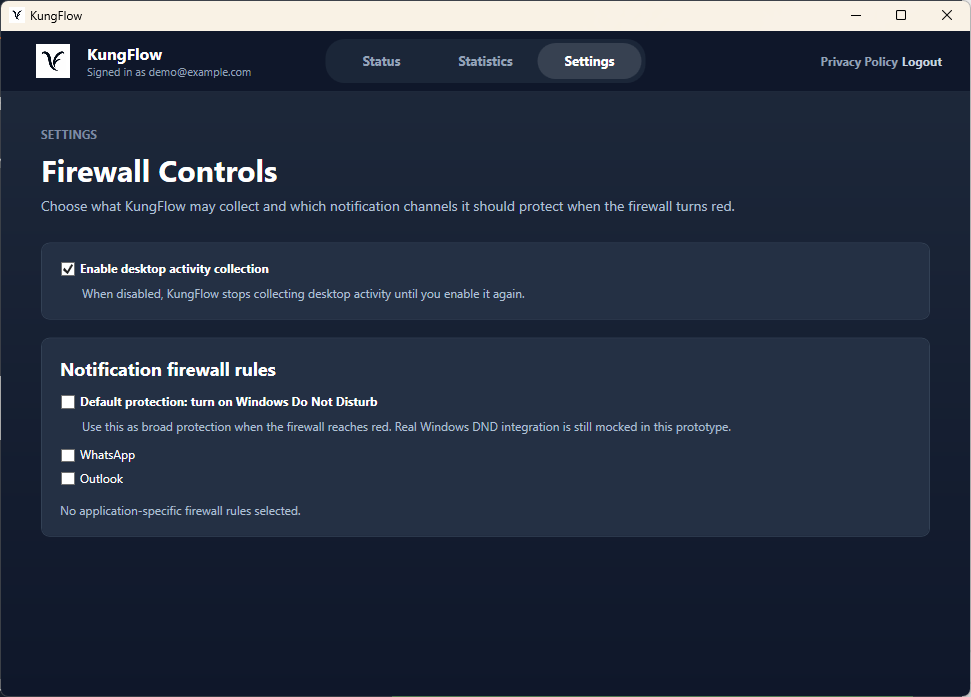
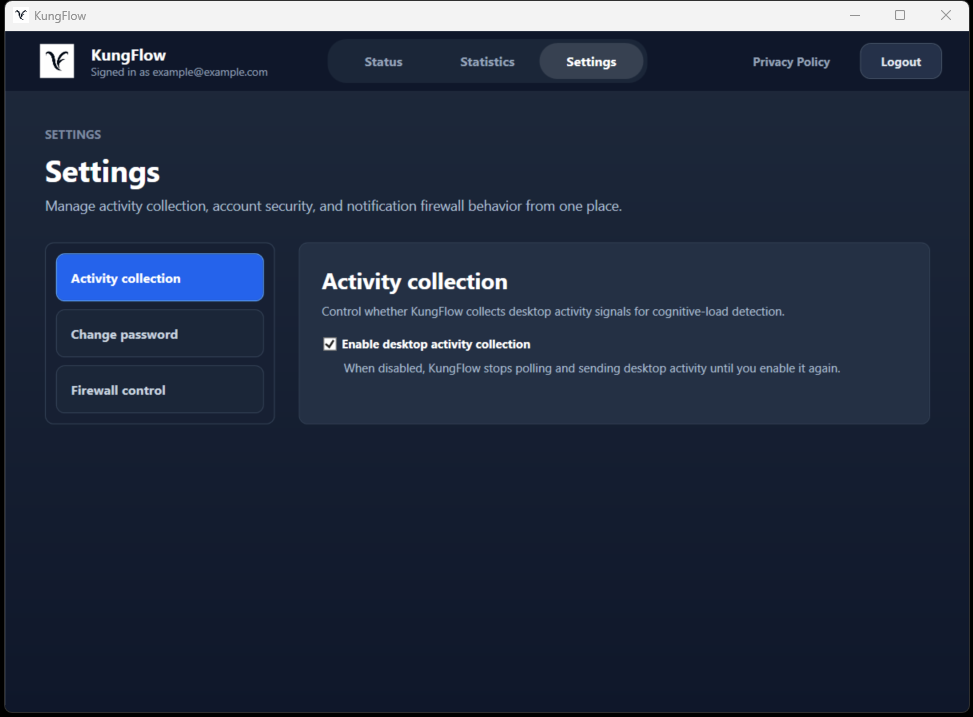
Update overload styling and landing screenshots

diff --git a/server/public/landing/index.html b/server/public/landing/index.html
@@ -40,8 +40,8 @@
             <figcaption><strong>Your signals, in context</strong><span>Review activity metrics alongside your personal baseline and current load score.</span></figcaption>
           </figure>
           <figure class="product-shot">
-            <img src="assets/kungflow-firewall-settings.png" alt="KungFlow settings screen with notification firewall controls" loading="lazy">
-            <figcaption><strong>Protection you control</strong><span>Choose how the notification firewall responds when cognitive load rises.</span></figcaption>
+            <img src="assets/kungflow-firewall-settings.png" alt="KungFlow settings screen with activity collection, password, and firewall controls" loading="lazy">
+            <figcaption><strong>Settings in one place</strong><span>Manage activity collection, account security, and notification firewall behavior.</span></figcaption>
           </figure>
         </div>
       </section>

diff --git a/desktop/KungFlow.Desktop/KungFlow.Desktop.UI/MainWindow.xaml.cs b/desktop/KungFlow.Desktop/KungFlow.Desktop.UI/MainWindow.xaml.cs
@@ -1280,10 +1280,18 @@ public partial class MainWindow : Window
 
         if (isFirewallActive)
         {
-            statusColor = MediaColor.FromRgb(74, 222, 128);
-            borderColor = MediaColor.FromRgb(22, 101, 52);
-            badgeBackground = MediaColor.FromRgb(20, 83, 45);
-            badgeBorder = MediaColor.FromRgb(34, 197, 94);
+            statusColor = isOverloaded
+                ? MediaColor.FromRgb(248, 113, 113)
+                : MediaColor.FromRgb(74, 222, 128);
+            borderColor = isOverloaded
+                ? MediaColor.FromRgb(127, 29, 29)
+                : MediaColor.FromRgb(22, 101, 52);
+            badgeBackground = isOverloaded
+                ? MediaColor.FromRgb(69, 10, 10)
+                : MediaColor.FromRgb(20, 83, 45);
+            badgeBorder = isOverloaded
+                ? MediaColor.FromRgb(248, 113, 113)
+                : MediaColor.FromRgb(34, 197, 94);
             badgeText = "Protected";
             summary = "You are protected right now.";
             detail = $"The KungFlow Firewall is active in {GetFirewallModeLabel()} and reducing interruption flow.";
@@ -1332,7 +1340,10 @@ public partial class MainWindow : Window
         FirewallProtectionBadgeTextBlock.Text = badgeText;
         FirewallProtectionBadgeTextBlock.Foreground = new SolidColorBrush(statusColor);
         FirewallStatusSummaryTextBlock.Text = summary;
-        FirewallStatusSummaryTextBlock.Foreground = new SolidColorBrush(statusColor);
+        FirewallStatusSummaryTextBlock.Foreground = new SolidColorBrush(
+            isOverloaded
+                ? MediaColor.FromRgb(248, 113, 113)
+                : statusColor);
         FirewallStatusDetailTextBlock.Text = detail;
         FirewallStatusModeTextBlock.Text = GetFirewallModeDisplayName();
         FirewallStatusProtectedAppsTextBlock.Text = BuildFirewallProtectedAppsSummary();
